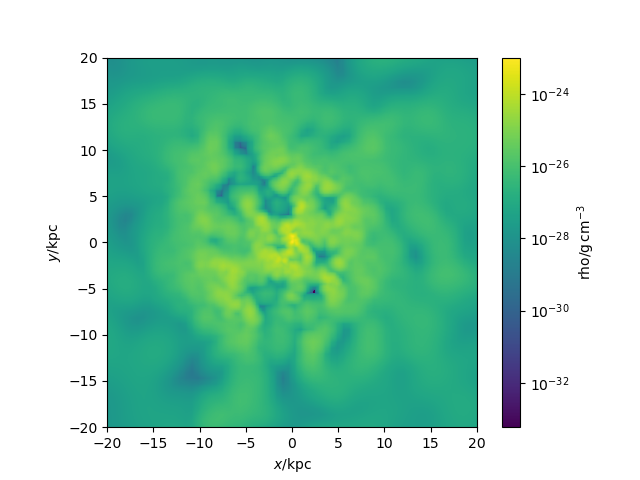
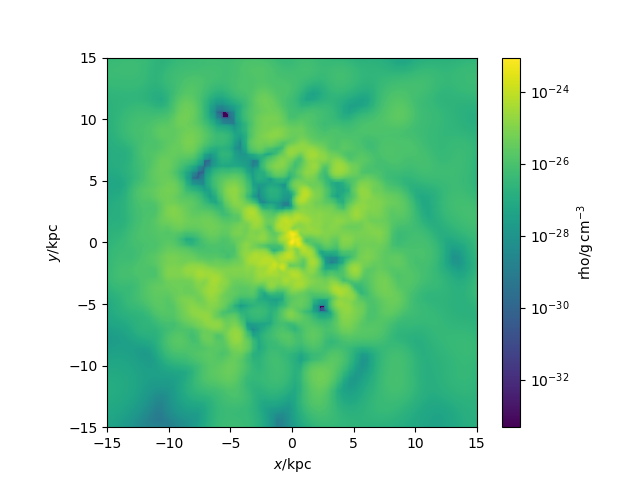
axis updated

diff --git a/r429/galaxy429_iongas.py b/r429/galaxy429_iongas.py
@@ -13,13 +13,15 @@ s=pynbody.load('/mnt/data0/jillian/gguaman/r429/cosmo25p.768sg1bwK1BHe75.007779'
 s.physical_units()
 
 #centering halo
-pynbody.analysis.angmom.faceon(s)
+#pynbody.analysis.angmom.faceon(s)
+pynbody.analysis.angmom.sideon(s)
 
 #filter to only use ionised gas
 GasFilter = pynbody.filt.HighPass('temp','15848 K')
 
 #creating image to show velocity of ionised gas
-sph.image(s.g[GasFilter],qty="vr",vmin=-20,width=40,denoise=True,approximate_fast=False,log=False)
+sph.image(s.g[GasFilter],qty="vr",vmin=-20,width=30,denoise=True,approximate_fast=False,log=False)
 
 #plt.show()
-plt.savefig("galaxy429_iongas.png")
+#plt.savefig("galaxy429_iongas.png")
+plt.savefig("galaxy429_iongas(sideon).png")

diff --git a/r429/galaxy429_velocity.py b/r429/galaxy429_velocity.py
@@ -12,10 +12,12 @@ s=pynbody.load('/mnt/data0/jillian/gguaman/r429/cosmo25p.768sg1bwK1BHe75.007779'
 s.physical_units()
 
 #centering halo
-pynbody.analysis.angmom.faceon(s)
+#pynbody.analysis.angmom.faceon(s)
+pynbody.analysis.angmom.sideon(s)
 
 #creating gas velocity plot
-sph.image(s.g,qty="vr",width=40,denoise=True,approximate_fast=False,log=False)
+sph.image(s.g,qty="vr",width=30,denoise=True,approximate_fast=False,log=False)
 
 #plt.show()
-plt.savefig("galaxy429_velocity.png")
+#plt.savefig("galaxy429_velocity.png")
+plt.savefig("galaxy429_velocity(side).png")

diff --git a/r429/galaxy429_temp.py b/r429/galaxy429_temp.py
@@ -12,10 +12,12 @@ s=pynbody.load('/mnt/data0/jillian/gguaman/r429/cosmo25p.768sg1bwK1BHe75.007779'
 s.physical_units()
 
 #centering halo
-pynbody.analysis.angmom.faceon(s)
+#pynbody.analysis.angmom.faceon(s)
+pynbody.analysis.angmom.sideon(s)
 
 #creating slice to show gas temp
-sph.image(s.g,qty="temp",width=40,denoise=True,approximate_fast=False,log=True)
+sph.image(s.g,qty="temp",width=30,denoise=True,approximate_fast=False,log=True)
 
 #plt.show()
-plt.savefig("galaxy429_temp.png")
+#plt.savefig("galaxy429_temp.png")
+plt.savefig("galaxy429_temp(side).png")

diff --git a/r429/galaxy429_stars.py b/r429/galaxy429_stars.py
@@ -10,11 +10,12 @@ s=pynbody.load('/mnt/data0/jillian/gguaman/r429/cosmo25p.768sg1bwK1BHe75.007779'
 s.physical_units()
 
 #centering halo
-pynbody.analysis.angmom.faceon(s)
-#pynbody.analysis.angmom.sideon(s)
+#pynbody.analysis.angmom.faceon(s)
+pynbody.analysis.angmom.sideon(s)
 
 #creating image using default bands(i,v,u)
-pynbody.plot.stars.render(s,width='12 kpc')
+pynbody.plot.stars.render(s,width='30 kpc')
 
 #plt.show()
-plt.savefig("galaxy429_stars.png")
+#plt.savefig("galaxy429_stars.png")
+plt.savefig("galaxy429_stars(side).png")

diff --git a/r429/galaxy429_dens.py b/r429/galaxy429_dens.py
@@ -10,10 +10,12 @@ s=pynbody.load('/mnt/data0/jillian/gguaman/r429/cosmo25p.768sg1bwK1BHe75.007779'
 s.physical_units()
 
 #centering halo and aligning disk
-pynbody.analysis.angmom.faceon(s)
+#pynbody.analysis.angmom.faceon(s)
+pynbody.analysis.angmom.sideon(s)
 
 #creating gas density slice
-sph.image(s.g,qty="rho",units="g cm^-3",width=40)
+sph.image(s.g,qty="rho",units="g cm^-3",width=30)
 
 #plt.show()
-plt.savefig("galaxy429_dens.png")
+#plt.savefig("galaxy429_dens.png")
+plt.savefig("galaxy429_dens(side).png")
